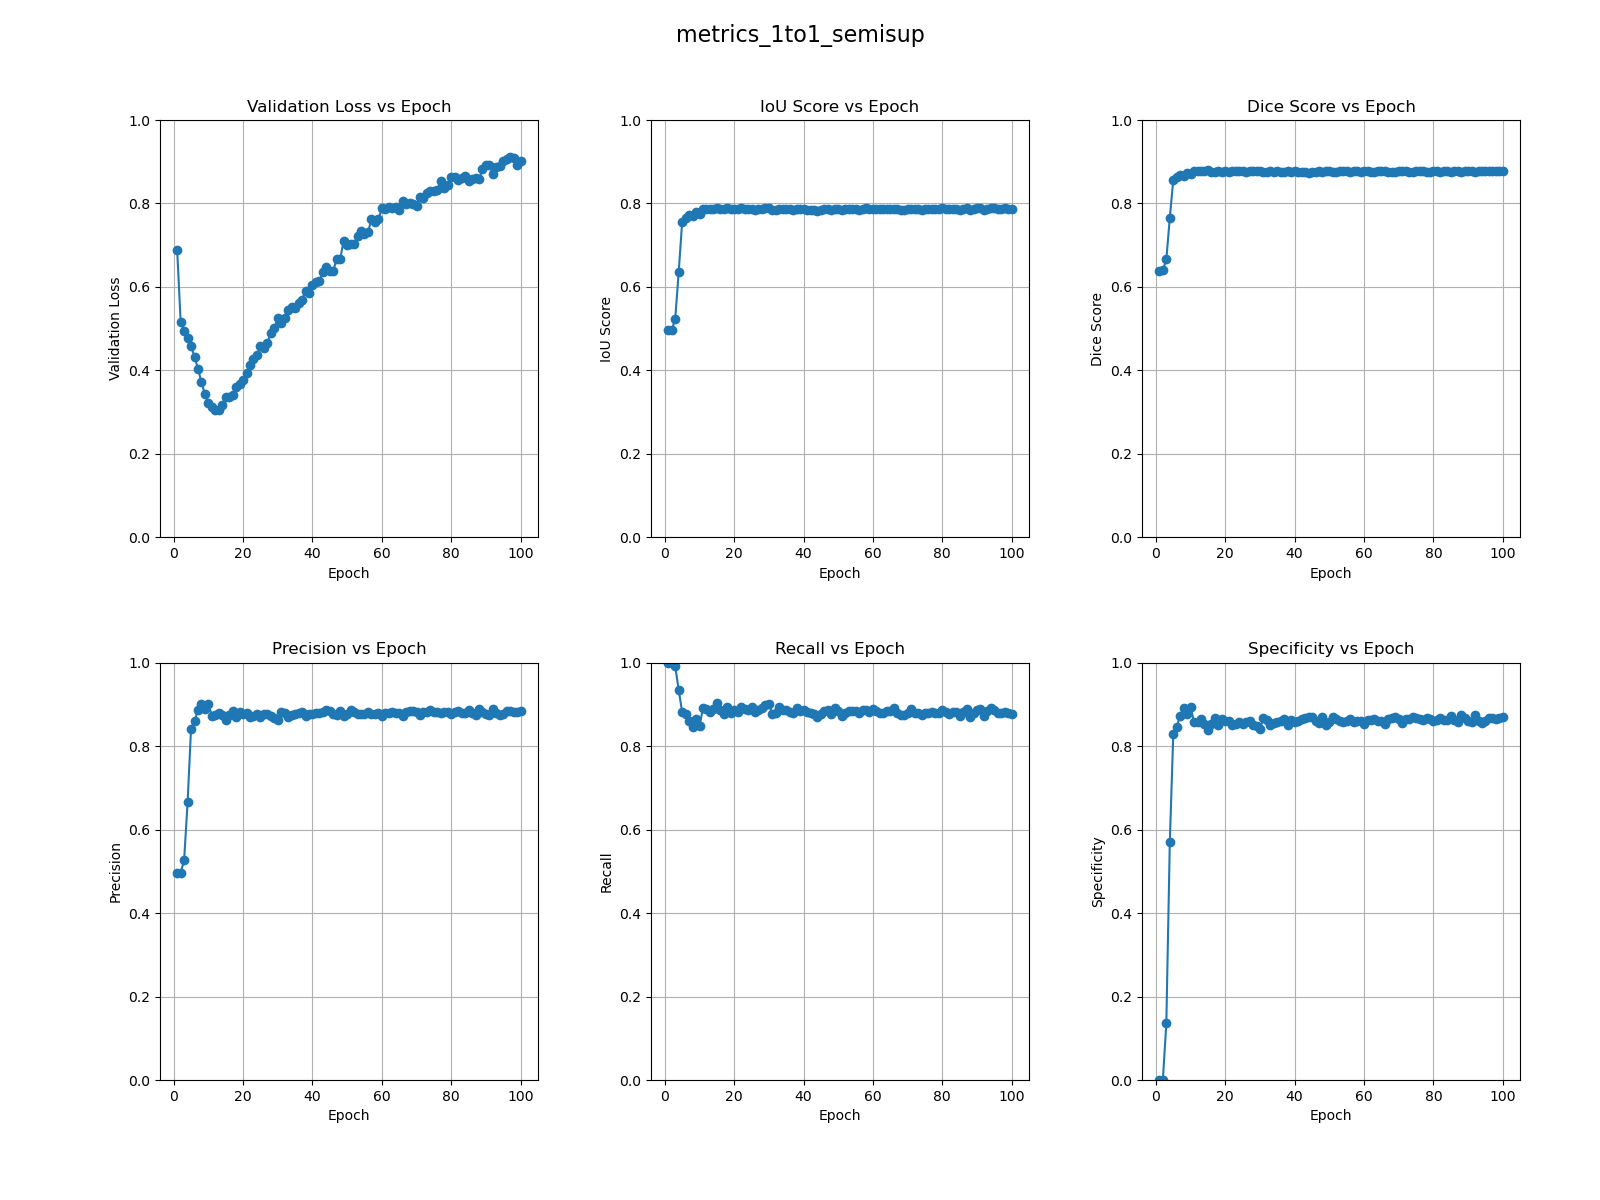
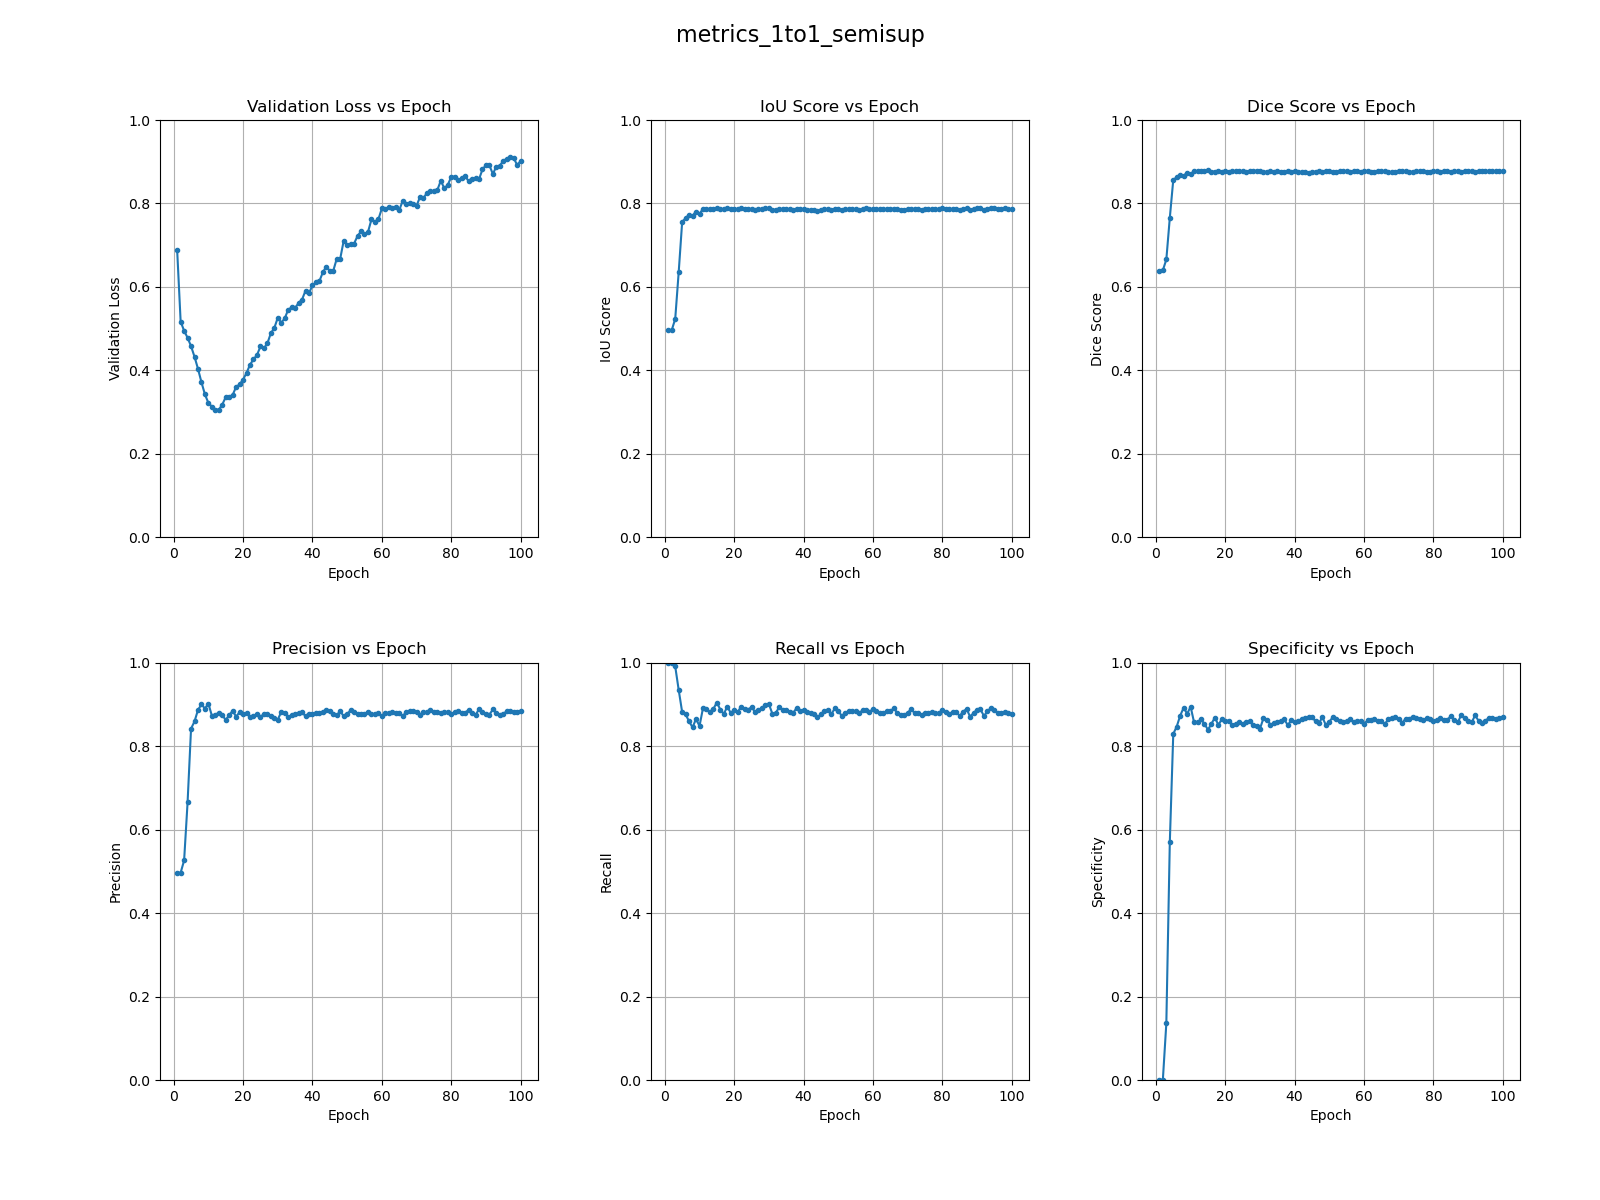
fixed 1to10 ratio graphs

diff --git a/plot_metrics.py b/plot_metrics.py
@@ -32,10 +32,11 @@ def plot_metrics(csv_file):
     fig.suptitle(fig_name, fontsize=16)
     axes = axes.ravel()  # Flatten axes for easier iteration
     
+    marker_size = 3
     # Create a plot for each column
     for i in range(1, len(headers)):
         ax = axes[i-1]
-        ax.plot(data[0], data[i], marker='o', linestyle='-')
+        ax.plot(data[0], data[i], marker='o', markersize = marker_size, linestyle='-')
         if max(data[i]) < 1:
             ax.set_ylim([0, 1])
         else:
@@ -86,16 +87,21 @@ def plot_three_metrics(semisup_csv, sup_csv, fully_sup_csv):
         file_name = file_name.replace(".csv", "")
         return file_name
     
+    marker_size = 3
     # Create a plot for each column
     for i in range(1, len(headers1)):
         ax = axes[i-1]
-        if max(data1[i]) < 1:
-            ax.set_ylim([0, 1])
-        else:
+        if i == 1:
             ax.set_ylim([0, max(data1[i])])
-        ax.plot(data1[0], data1[i], marker='o', linestyle='-', label=f'{extract_label(semisup_csv)}')
-        ax.plot(data2[0], data2[i], marker='o', linestyle='-', label=f'{extract_label(sup_csv)}')
-        ax.plot(data3[0], data3[i], marker='o', linestyle='-', label=f'{extract_label(fully_sup_csv)}')
+        elif i == 2:
+            ax.set_ylim([0.5, 0.85])
+        elif i == 3:
+            ax.set_ylim([0.6, 0.9])
+        # elif i == 4:
+        #     ax.set_ylim([0.75, 1])
+        ax.plot(data1[0], data1[i], marker='o', markersize = marker_size, linestyle='-', label=f'{extract_label(semisup_csv)}')
+        ax.plot(data2[0], data2[i], marker='o', markersize = marker_size, linestyle='-', label=f'{extract_label(sup_csv)}')
+        ax.plot(data3[0], data3[i], marker='o', markersize = marker_size, linestyle='-', label=f'{extract_label(fully_sup_csv)}')
         ax.set_xlabel(headers1[0])
         ax.set_ylabel(headers1[i])
         ax.set_title(f'{headers1[i]} vs {headers1[0]}')
@@ -150,6 +156,7 @@ def plot_four_metrics(csv_1to1, csv_1to3, csv_1to5, csv_1to10):
         file_name = file_name.replace(".csv", "")
         return file_name
     
+    marker_size = 3
     # Create a plot for each column
     for i in range(1, len(headers1)):
         ax = axes[i-1]
@@ -157,10 +164,10 @@ def plot_four_metrics(csv_1to1, csv_1to3, csv_1to5, csv_1to10):
             ax.set_ylim([0, 1])
         else:
             ax.set_ylim([0, max(data4[i])])
-        ax.plot(data1[0], data1[i], marker='o', linestyle='-', label=f'{extract_label(csv_1to1)}')
-        ax.plot(data2[0], data2[i], marker='o', linestyle='-', label=f'{extract_label(csv_1to3)}')
-        ax.plot(data3[0], data3[i], marker='o', linestyle='-', label=f'{extract_label(csv_1to5)}')
-        ax.plot(data4[0], data4[i], marker='o', linestyle='-', label=f'{extract_label(csv_1to10)}')
+        ax.plot(data1[0], data1[i], marker='o', markersize = marker_size, linestyle='-', label=f'{extract_label(csv_1to1)}')
+        ax.plot(data2[0], data2[i], marker='o', markersize = marker_size, linestyle='-', label=f'{extract_label(csv_1to3)}')
+        ax.plot(data3[0], data3[i], marker='o', markersize = marker_size, linestyle='-', label=f'{extract_label(csv_1to5)}')
+        ax.plot(data4[0], data4[i], marker='o', markersize = marker_size, linestyle='-', label=f'{extract_label(csv_1to10)}')
         ax.set_xlabel(headers1[0])
         ax.set_ylabel(headers1[i])
         ax.set_title(f'{headers1[i]} vs {headers1[0]}')
@@ -181,3 +188,63 @@ def plot_four_metrics(csv_1to1, csv_1to3, csv_1to5, csv_1to10):
     plt.savefig(png_file)
     
 plot_four_metrics('csv_metrics/metrics_1to1_semisup.csv', 'csv_metrics/metrics_1to3_semisup.csv', 'csv_metrics/metrics_1to5_semisup.csv', 'csv_metrics/metrics_1to10_semisup.csv')
+
+# def plot_five_metrics(csv_1to1, csv_1to3, csv_1to5, csv_1to10, csv_fullsup):
+#     '''Plot comparison between the different ratios of labeled to unlabeled data'''
+#     # Read data from both CSV files
+#     headers1, data1 = read_csv_data(csv_1to1)
+#     headers2, data2 = read_csv_data(csv_1to3)
+#     headers3, data3 = read_csv_data(csv_1to5)
+#     headers4, data4 = read_csv_data(csv_1to10)
+#     headers5, data5 = read_csv_data(csv_fullsup)
+
+#     # Transpose data for easier plotting
+#     data1 = list(zip(*data1))
+#     data2 = list(zip(*data2))
+#     data3 = list(zip(*data3))
+#     data4 = list(zip(*data4))
+#     data5 = list(zip(*data5))
+    
+#     # Create a 2*3 grid of subplots
+#     fig, axes = plt.subplots(2, 3, figsize=(16, 12))
+#     axes = axes.ravel()
+    
+#     # Function to extract label from CSV file name
+#     def extract_label(file_name):
+#         file_name = file_name.replace("csv_metrics/metrics_", "")
+#         file_name = file_name.replace(".csv", "")
+#         return file_name
+    
+#     marker_size = 3
+#     # Create a plot for each column
+#     for i in range(1, len(headers1)):
+#         ax = axes[i-1]
+#         if max(data4[i]) < 1:
+#             ax.set_ylim([0, 1])
+#         else:
+#             ax.set_ylim([0, max(data4[i])])
+#         ax.plot(data1[0], data1[i], marker='o', markersize = marker_size, linestyle='-', label=f'{extract_label(csv_1to1)}')
+#         ax.plot(data2[0], data2[i], marker='o', markersize = marker_size, linestyle='-', label=f'{extract_label(csv_1to3)}')
+#         ax.plot(data3[0], data3[i], marker='o', markersize = marker_size, linestyle='-', label=f'{extract_label(csv_1to5)}')
+#         ax.plot(data4[0], data4[i], marker='o', markersize = marker_size, linestyle='-', label=f'{extract_label(csv_1to10)}')
+        
+#         ax.set_xlabel(headers1[0])
+#         ax.set_ylabel(headers1[i])
+#         ax.set_title(f'{headers1[i]} vs {headers1[0]}')
+#         ax.grid(True)
+#         ax.legend()
+
+#     # Add an overall figure title
+#     fig.suptitle("Performance comparison between different ratios of labeled to unlabeled data", fontsize=16)
+    
+#     # Adjust layout for better appearance and provide space for the suptitle
+#     fig.subplots_adjust(left=0.1, right=0.95, bottom=0.1, top=0.9, wspace=0.3, hspace=0.3)
+    
+#     # Create the 'results_img' folder if it doesn't exist
+#     os.makedirs('results_img', exist_ok=True)
+    
+#     # Save the figure as a .png file with the same name as the first .csv file, in the 'results_img' folder
+#     png_file = os.path.join('results_img', 'diff_ratio_comparison' + '.png')
+#     plt.savefig(png_file)
+    
+# plot_four_metrics('csv_metrics/metrics_1to1_semisup.csv', 'csv_metrics/metrics_1to3_semisup.csv', 'csv_metrics/metrics_1to5_semisup.csv', 'csv_metrics/metrics_1to10_semisup.csv')
